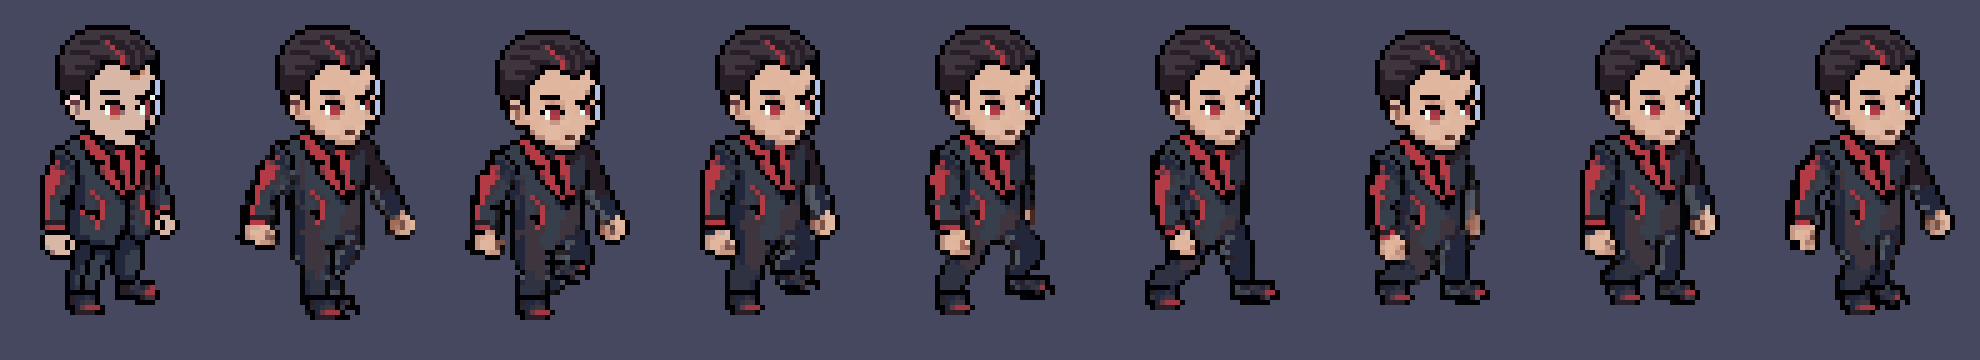
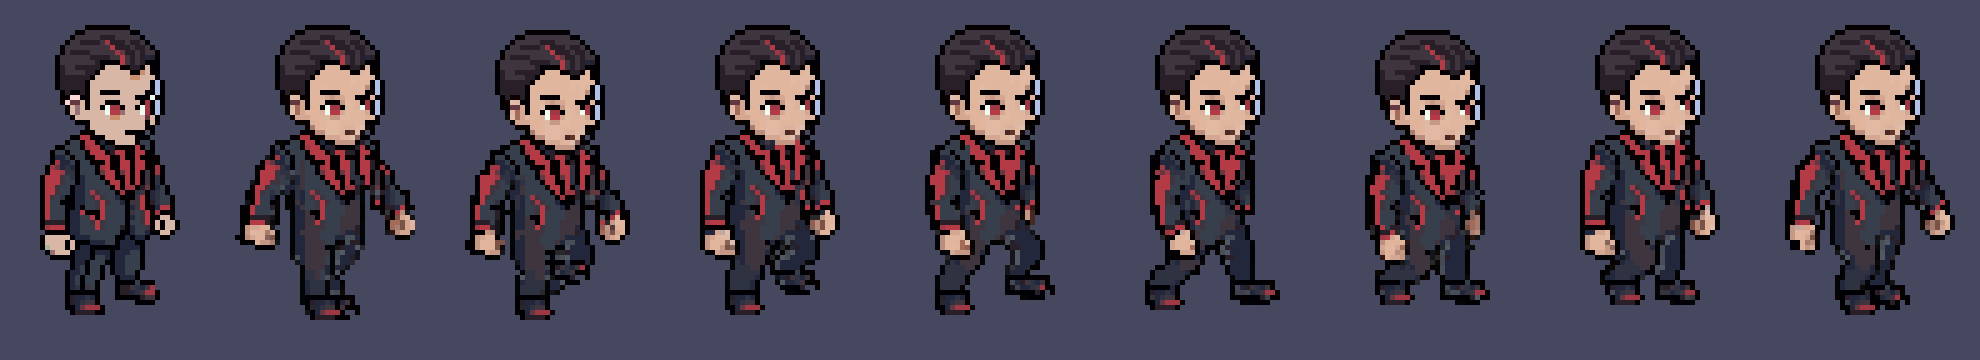
Modular ride: detailed far sleeve clipped to the base's drawn arm (--clip-far-arm)
Claude-Session: https://claude.ai/code/session_01WgQHfQ1KzKVhmPi89vrFCL

diff --git a/tools/pixellab/ride_parts.py b/tools/pixellab/ride_parts.py
@@ -206,6 +206,46 @@ def foot_bottom(img, x: float, y0: float, half: int = 2):
 	return best
 
 
+def owners(base, j, bones, far: str):
+	"""Which limb the base frame shows at each opaque pixel: the nearest bone
+	in this frame, with ties going to the torso over the far arm (it hangs
+	behind the body), and everything above the neck to the head."""
+	from split_parts import seg_dist
+	bp = base.load()
+	W, H = base.size
+	own = {}
+	names = [n for n in bones["bones"] if n != "head"]
+	for y in range(H):
+		for x in range(W):
+			if bp[x, y][3] < 128:
+				continue
+			if y < j["NECK"][1] - 2:
+				own[(x, y)] = "head"
+				continue
+			own[(x, y)] = min(names, key=lambda n: seg_dist((x, y), j[bones["bones"][n][0]], j[bones["bones"][n][1]])
+				+ (2.0 if n in ("upper_arm" + far, "forearm" + far) else 0))
+	return own
+
+
+def clip_to(placed, own, keep: set, margin: int = 1):
+	"""Only the part's pixels where the base frame shows that limb, plus a
+	thin rim outside the body next to it (cuffs, armour edges): the base
+	drawing decides what is hidden behind the torso."""
+	px = placed.load()
+	W, H = placed.size
+	for y in range(H):
+		for x in range(W):
+			if px[x, y][3] < 128:
+				continue
+			o = own.get((x, y))
+			if o in keep:
+				continue
+			if o is None and any(own.get((x + dx, y + dy)) in keep for dx in range(-margin, margin + 1) for dy in range(-margin, margin + 1)):
+				continue
+			px[x, y] = (0, 0, 0, 0)
+	return placed
+
+
 def main() -> None:
 	from PIL import Image
 	a = sys.argv[1:]
@@ -232,6 +272,7 @@ def main() -> None:
 			sh = head_anchor(stand_base, stand["NECK"][1])
 			stand_head = (sh[0] + sp[0], sh[1] + sp[1]) if sh else None
 		j = frame_joints(skel["frames"][i])
+		own = None
 		img = base.copy()
 		# Swap the walking head for the standing head the hair was cut against,
 		# moved to the same spot, so hair and head match exactly. Only above the
@@ -312,7 +353,12 @@ def main() -> None:
 						shifted.paste(big, (int(round(fa[0] - stand_head[0])), int(round(fa[1] - stand_head[1]))), big)
 					img.alpha_composite(shifted)
 					continue
-			img.alpha_composite(place(big, sa, sb, j[bone[0]], j[bone[1]], (W, H)))
+			placed = place(big, sa, sb, j[bone[0]], j[bone[1]], (W, H))
+			if "--clip-far-arm" in a and part in ("upper_arm" + far, "forearm" + far):
+				if own is None:
+					own = owners(base, j, bones, far)
+				placed = clip_to(placed, own, {"upper_arm" + far, "forearm" + far})
+			img.alpha_composite(placed)
 		if "--lining" in a:
 			img = lining(img, base, j, bones, facing, parts_dir)
 		img = outline(despeck(img))

diff --git a/assets/units/base_male_hi/README.md b/assets/units/base_male_hi/README.md
@@ -7,3 +7,10 @@ States (all `source/`, free exports): `base_light.zip` state `light_bodysuit` (b
 Parts (free): `parts/corporate_suit` (cut against the base, split per facing), `parts/cane` (dressed minus no-cane). Walk test: docs/screenshots/base_male_hi_suit_walk.gif. Open: this pair's faces are drawn a little differently, so the dressed eyes and brows ride with the head part; a few stray pixels at the back of the head and on the legs.
 
 Walk from our own poses (2026-11-10): the template walk was audited and rejected (the body turns from SE toward E on frames 2-3, face features change, legs 3-4 px too long on frames 5-6; docs/screenshots/base_male_hi_template_walk_audit.png). `source/walk_own_SE/` is an 8-frame walk built on the standing skeleton (`tools/pixellab/aim_pose.py --clip walk --id ... --zip ...`, about 3 generations): facing and face hold on every frame, feet stay within 2 px of the standing ground line, and the skeleton of every frame is known (`walk_own_SE_skeleton.json`), so outfits ride it with no estimate cost. docs/screenshots/base_male_hi_own_walk.gif.
+
+## Riding a walk (2026-11-10)
+`ride_parts.py ... --lining --paint-legs --clip-far-arm --base-hands` is the current recipe:
+- `--clip-far-arm`: the detailed far sleeve rides its bone but is only drawn where the base frame shows the far arm (plus a 1 px rim outside the body), so it passes behind the torso as PixelLab drew it. Use this for any limb clothing or armour with detail.
+- `--paint-legs`: trousers are the base's drawn legs in the trouser colours (plain cloth). Detailed leg armour would use the same clipping as the far arm instead.
+- `--base-hands`: hands come from the base frame with their outline.
+- `--paint-far-arm`: older option, the far arm as plain recoloured base (no detail).
